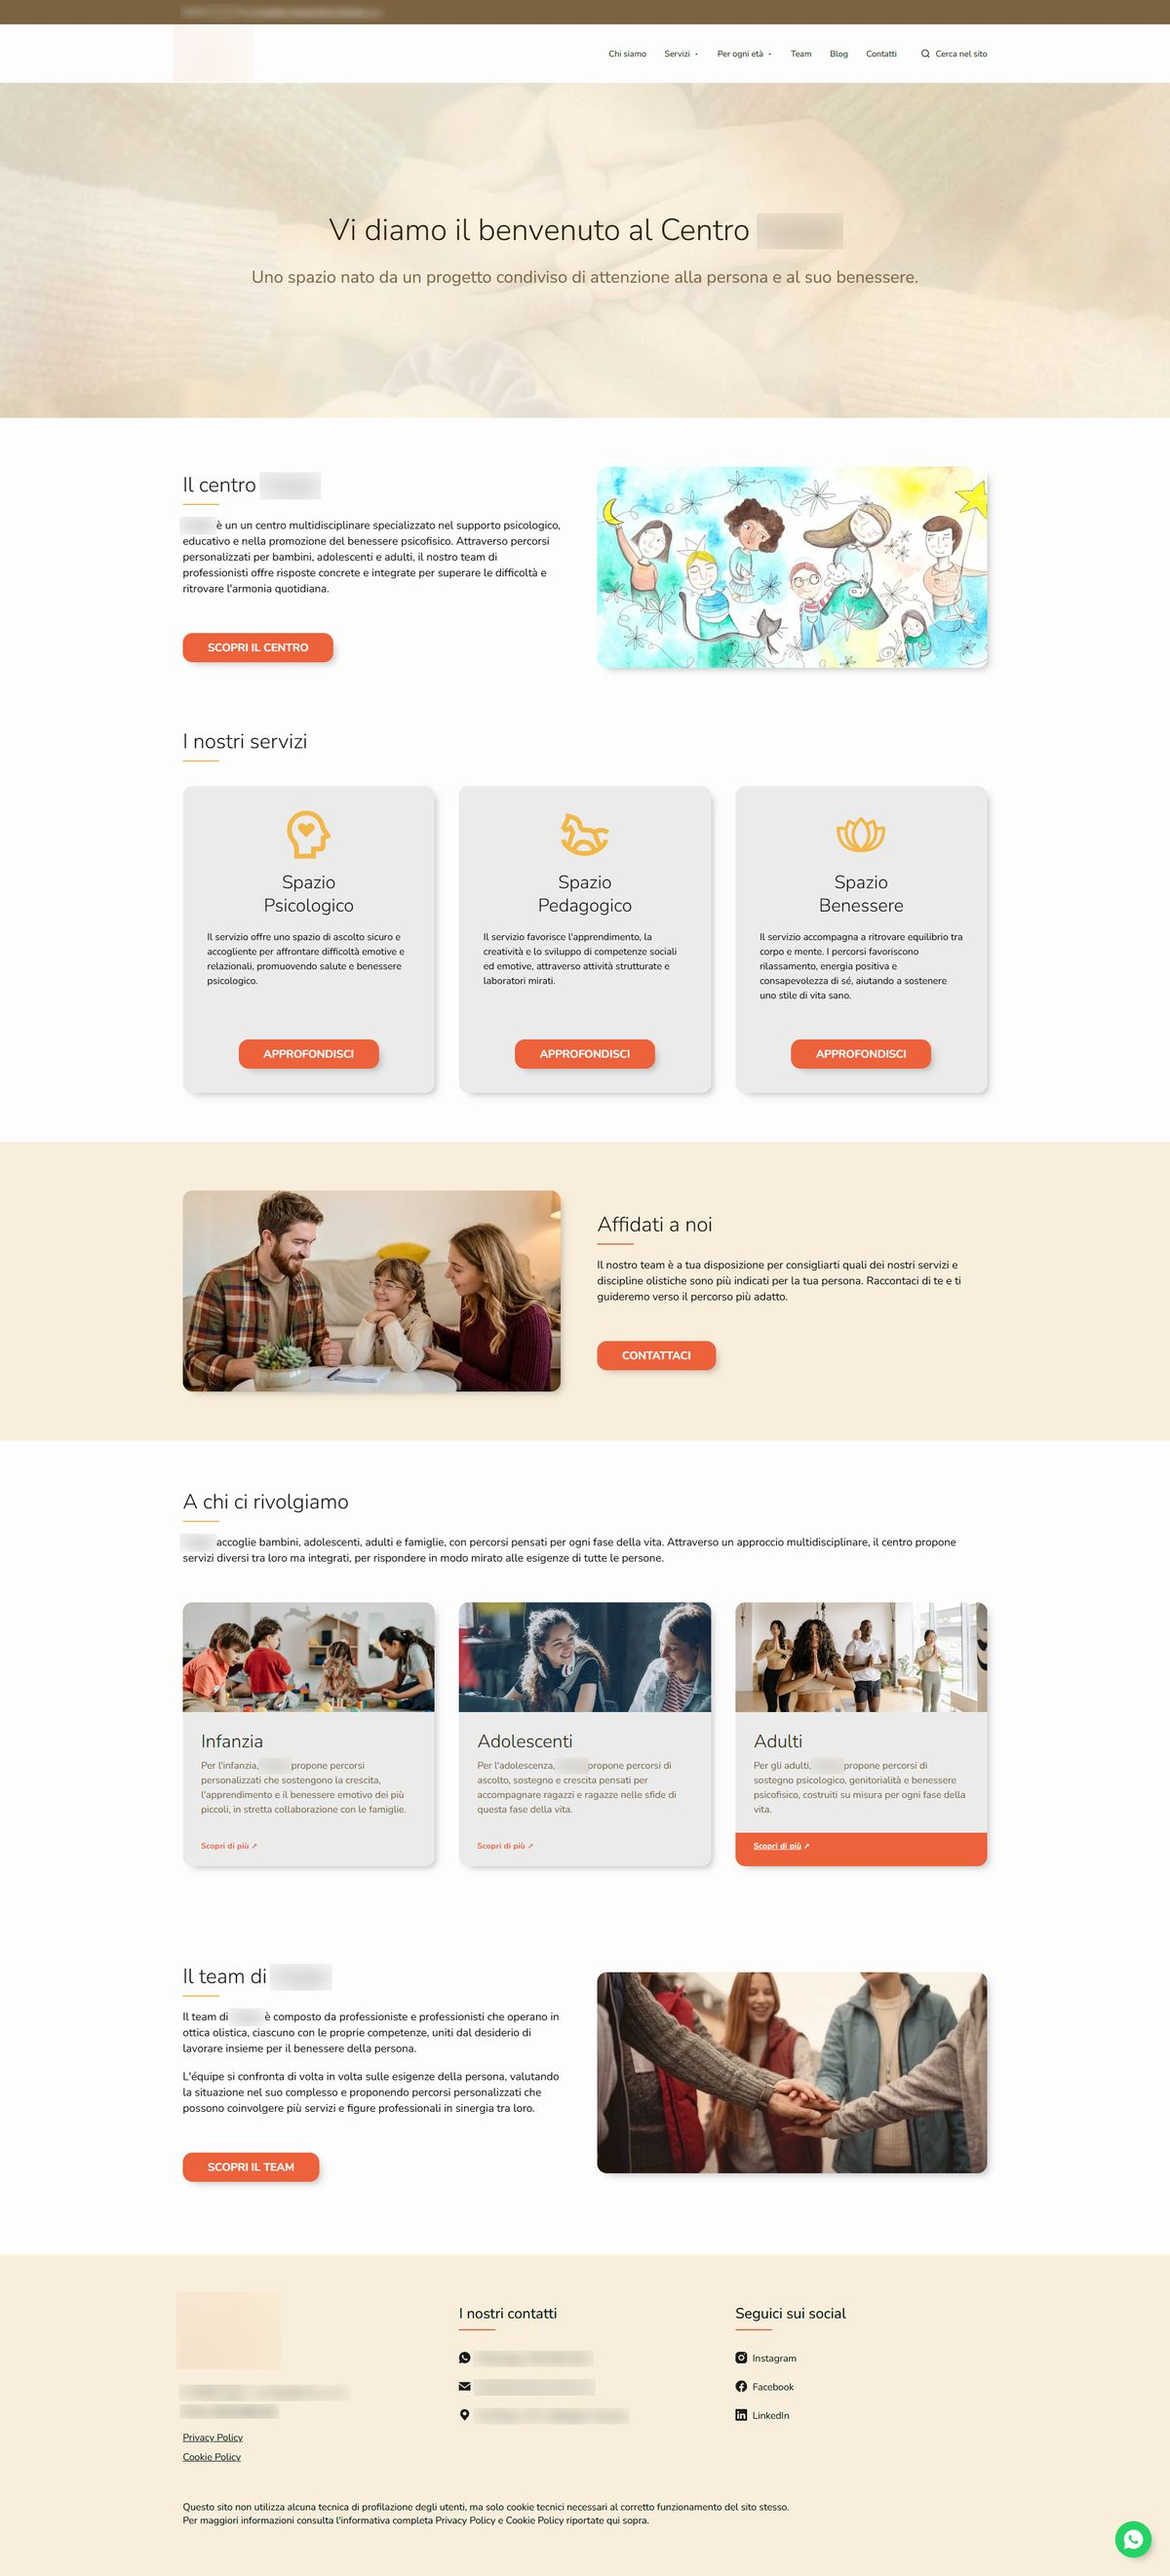
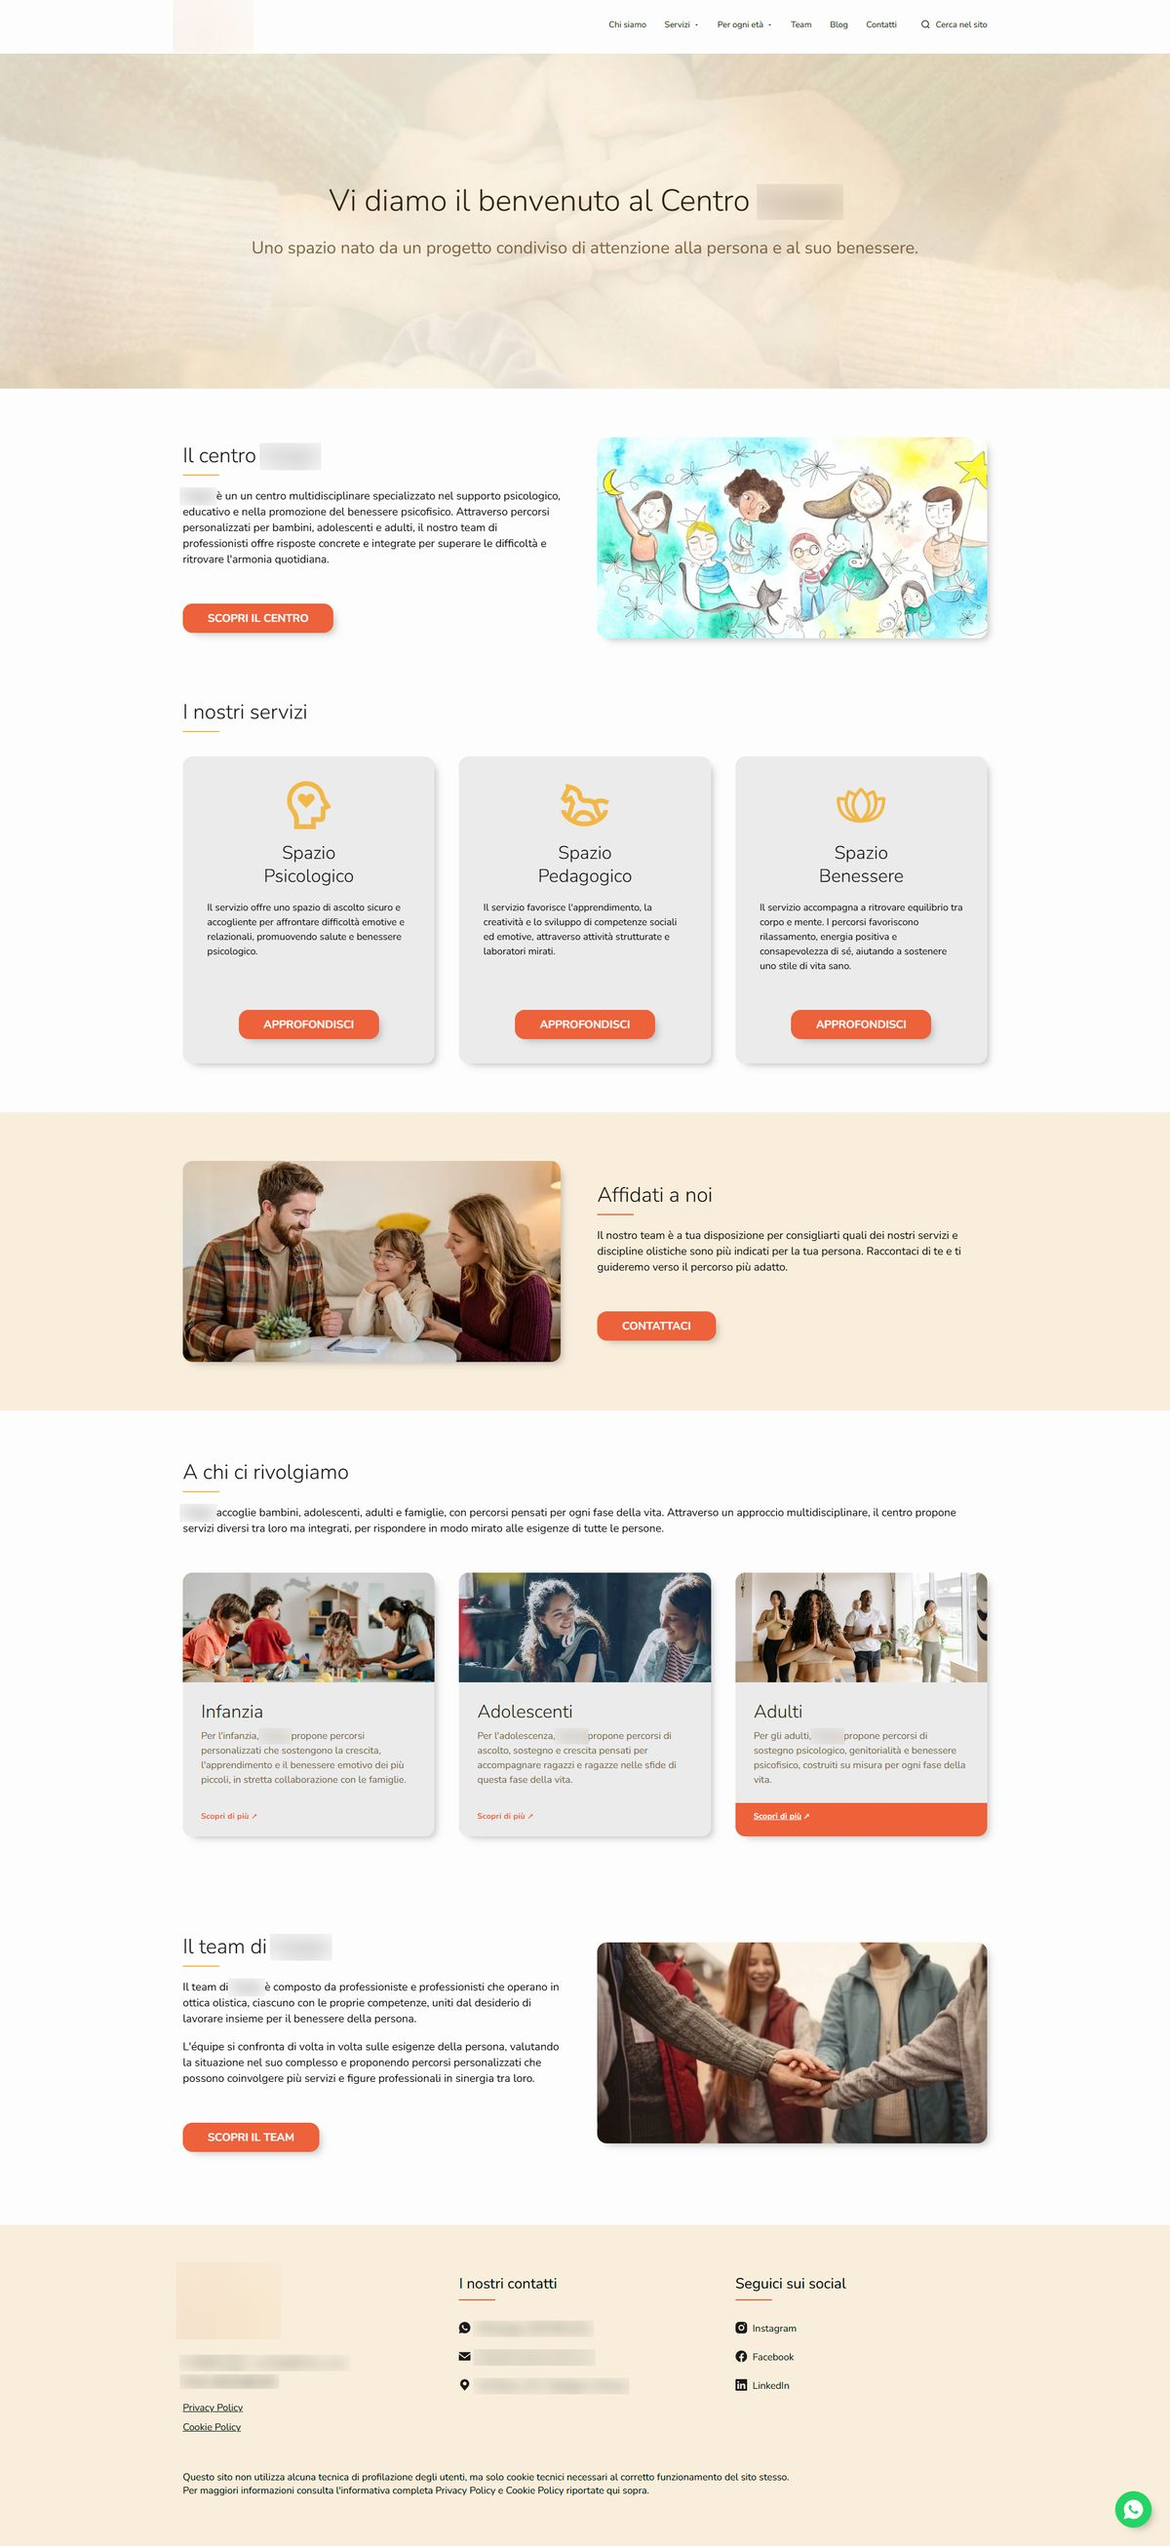
Crop energy and wellness previews to match trimmed originals

diff --git a/index.html b/index.html
@@ -58,7 +58,7 @@
 
       <li class="project">
         <button class="project__preview" type="button" data-full="assets/img/energia.jpg" aria-label="Apri anteprima: Efficienza energetica">
-          <img src="assets/img/energia.jpg" alt="Anteprima homepage di una società di efficienza energetica" loading="lazy" width="1200" height="4730">
+          <img src="assets/img/energia.jpg" alt="Anteprima homepage di una società di efficienza energetica" loading="lazy" width="1200" height="3036">
         </button>
         <div class="project__info">
           <span class="project__index">03</span>
@@ -86,7 +86,7 @@
 
       <li class="project">
         <button class="project__preview" type="button" data-full="assets/img/psicologia.jpg" aria-label="Apri anteprima: Centro di psicologia e benessere">
-          <img src="assets/img/psicologia.jpg" alt="Anteprima homepage di un centro di psicologia e benessere" loading="lazy" width="1200" height="2642">
+          <img src="assets/img/psicologia.jpg" alt="Anteprima homepage di un centro di psicologia e benessere" loading="lazy" width="1200" height="2612">
         </button>
         <div class="project__info">
           <span class="project__index">05</span>
